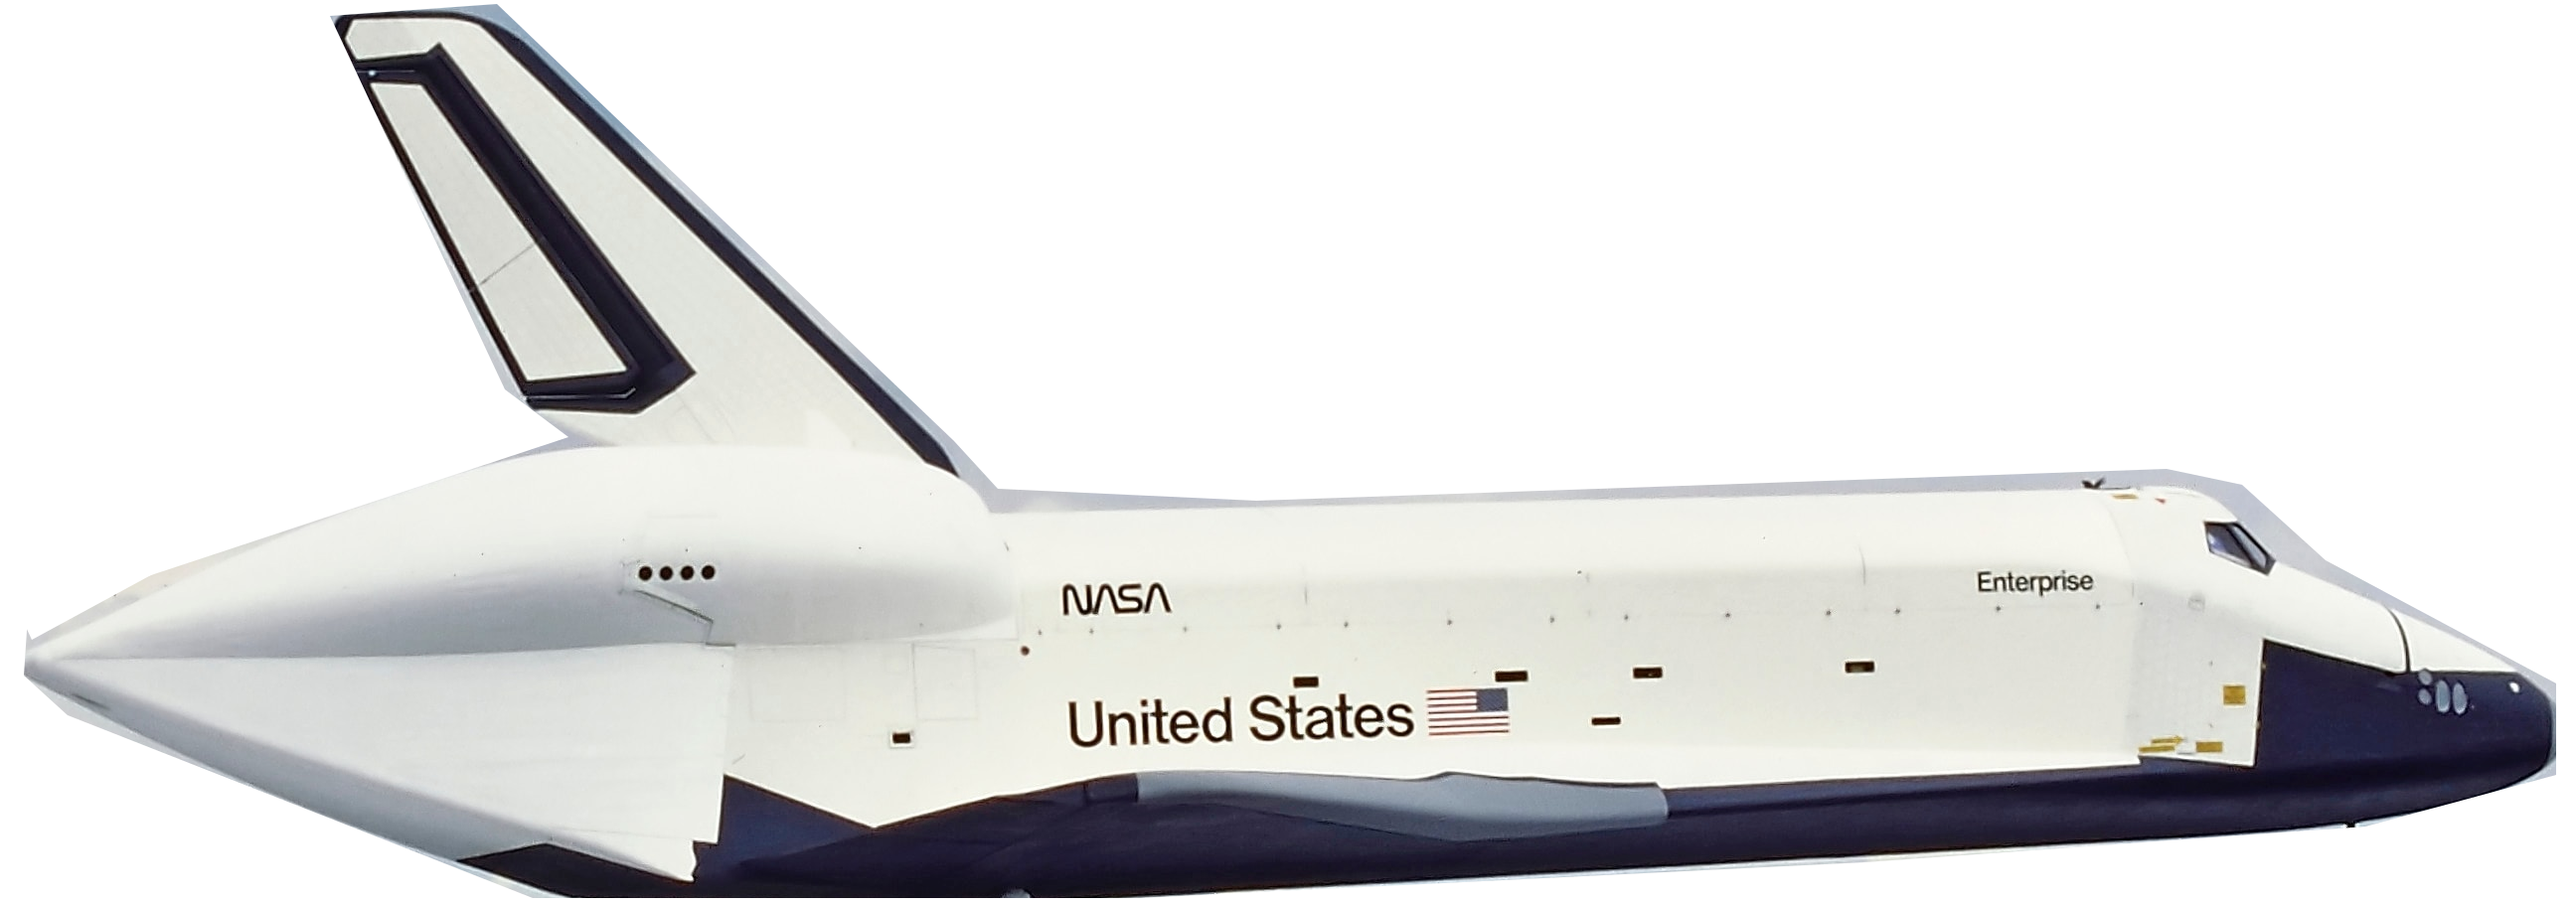
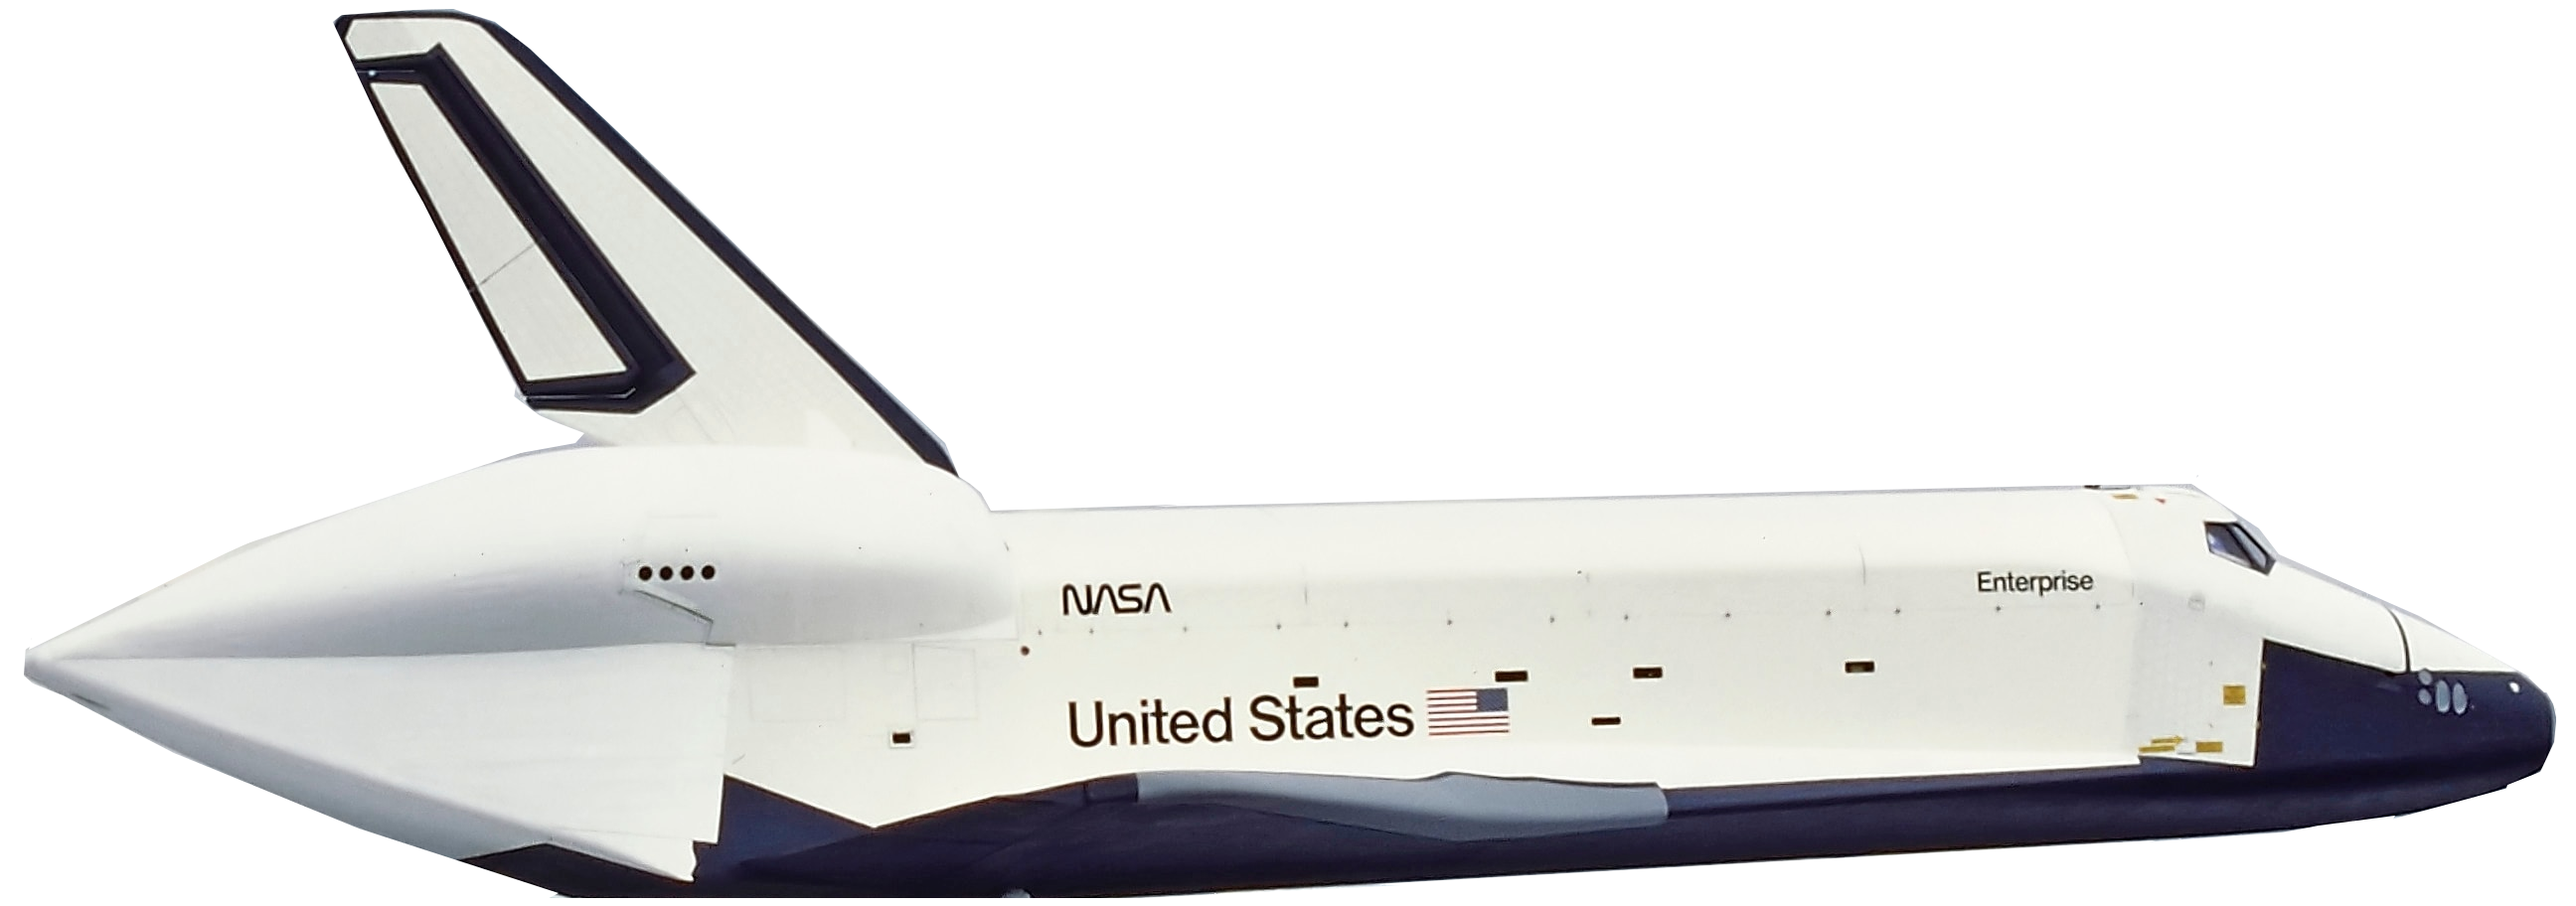
Changed sizing of shuttle. Also added shadow to text for better readability.

diff --git a/about.html b/about.html
@@ -44,7 +44,7 @@
             <div class="factoid f1">
                 <h3>Our Mission</h3>
                 <p>Lorem ipsum dolor sit amet, consectetur adipisicing elit. Perferendis, eaque necessitatibus! Unde hic ducimus officia sequi ipsa in autem recusandae nulla praesentium reiciendis ex, officiis excepturi sed nam eos maiores magni a provident alias natus architecto, incidunt rem illum necessitatibus.</p>
-            </div><img src="img/shuttle.png" alt="Space Shuttle" class="img-responsive hidden-xs">
+            </div><img src="img/shuttle-small.png" alt="Space Shuttle" class="img-responsive hidden-xs">
             <div class="factoid f2">
                 <h3>Our Story</h3>
                 <p>Lorem ipsum dolor sit, amet consectetur adipisicing elit. Ducimus vero ab aliquid maxime, doloremque quibusdam nostrum dolorum atque, sit error nulla! Perspiciatis blanditiis tempora quam, et magni voluptas possimus in, doloribus nisi nostrum quisquam ipsam quibusdam a autem odio quas.</p>

diff --git a/css/about.css b/css/about.css
@@ -19,6 +19,7 @@
 
 .about_content   {
     font-family: 'Bebas Neue', cursive;
+    text-shadow: 1px 1px #000;
 }
 
 .f1 {
@@ -48,10 +49,7 @@
     align-items: center;
 }
 
-.row-split img {
-    width: 60px;
-    height: 25px;
-}
+
 
 .row-center {
     width: 100%;
